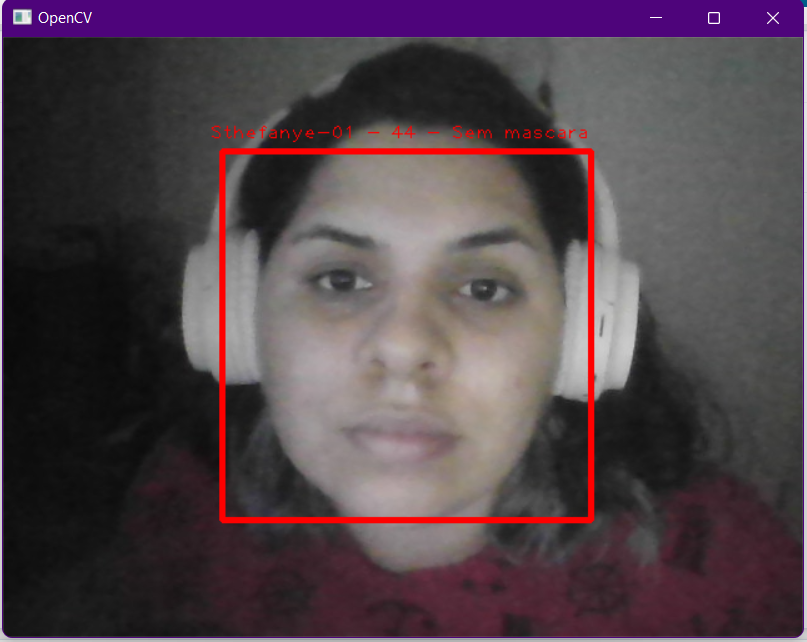
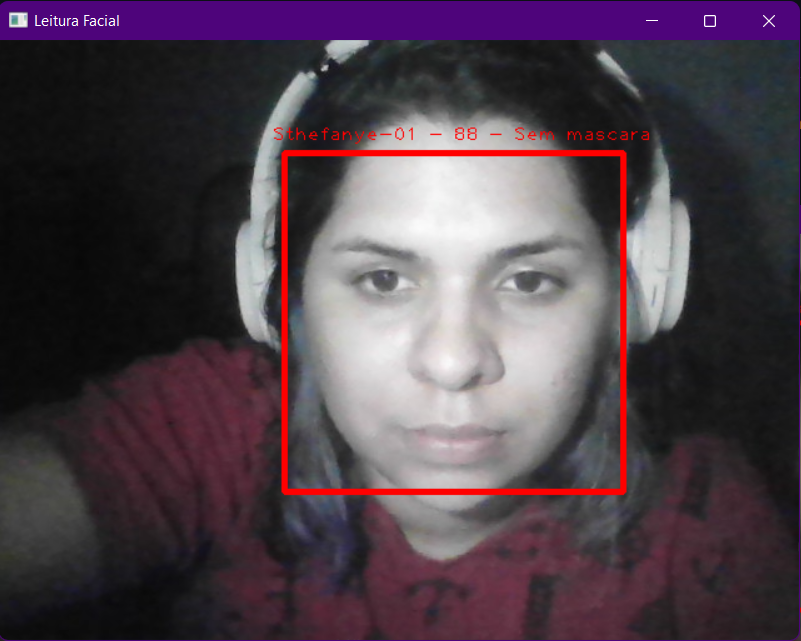
Update docs

diff --git a/reconhecimentoFacial.py b/reconhecimentoFacial.py
@@ -167,7 +167,7 @@ class ReconhecimentoFacial():
                                 (x - 10, y - 10), cv2.FONT_HERSHEY_PLAIN, 1, color)
 
             # Exibir uma imagem em uma janela.
-            cv2.imshow('OpenCV', im)
+            cv2.imshow('Leitura Facial', im)
 
         # Permite que os usuário destrua todas as janelas a qualquer momento.
         cv2.destroyAllWindows()
